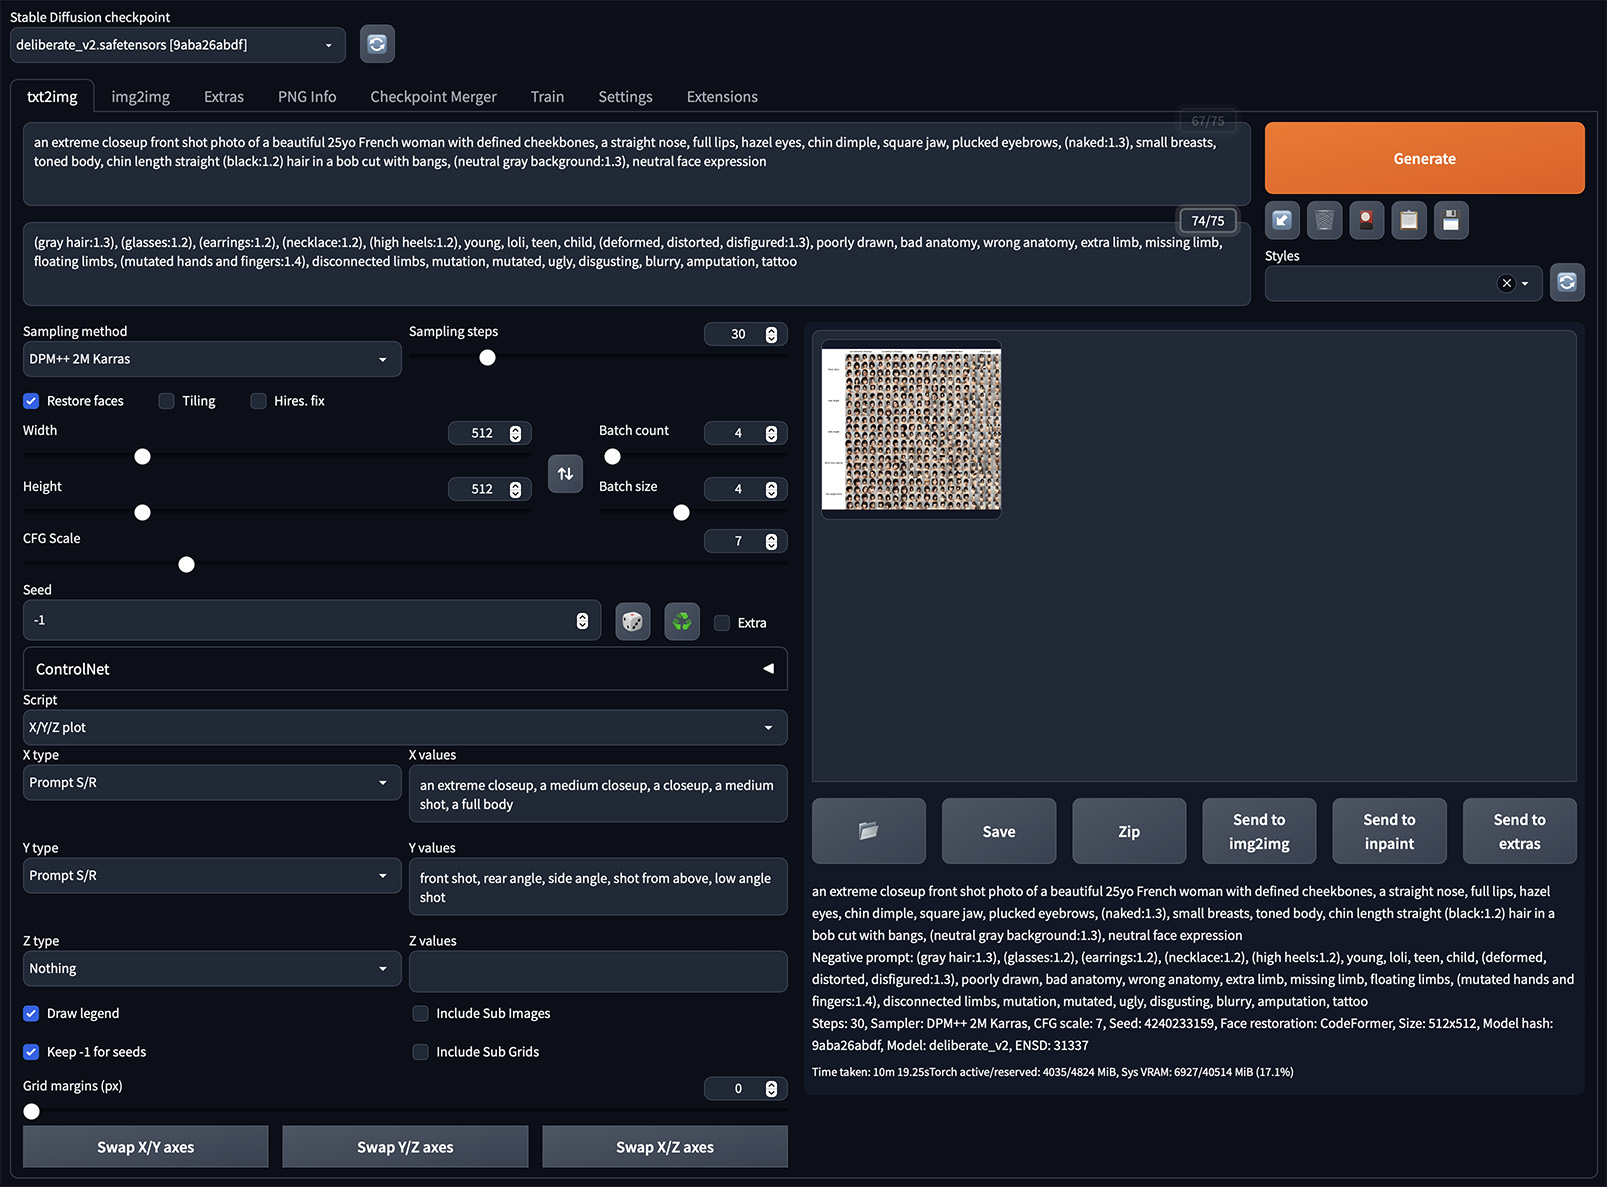
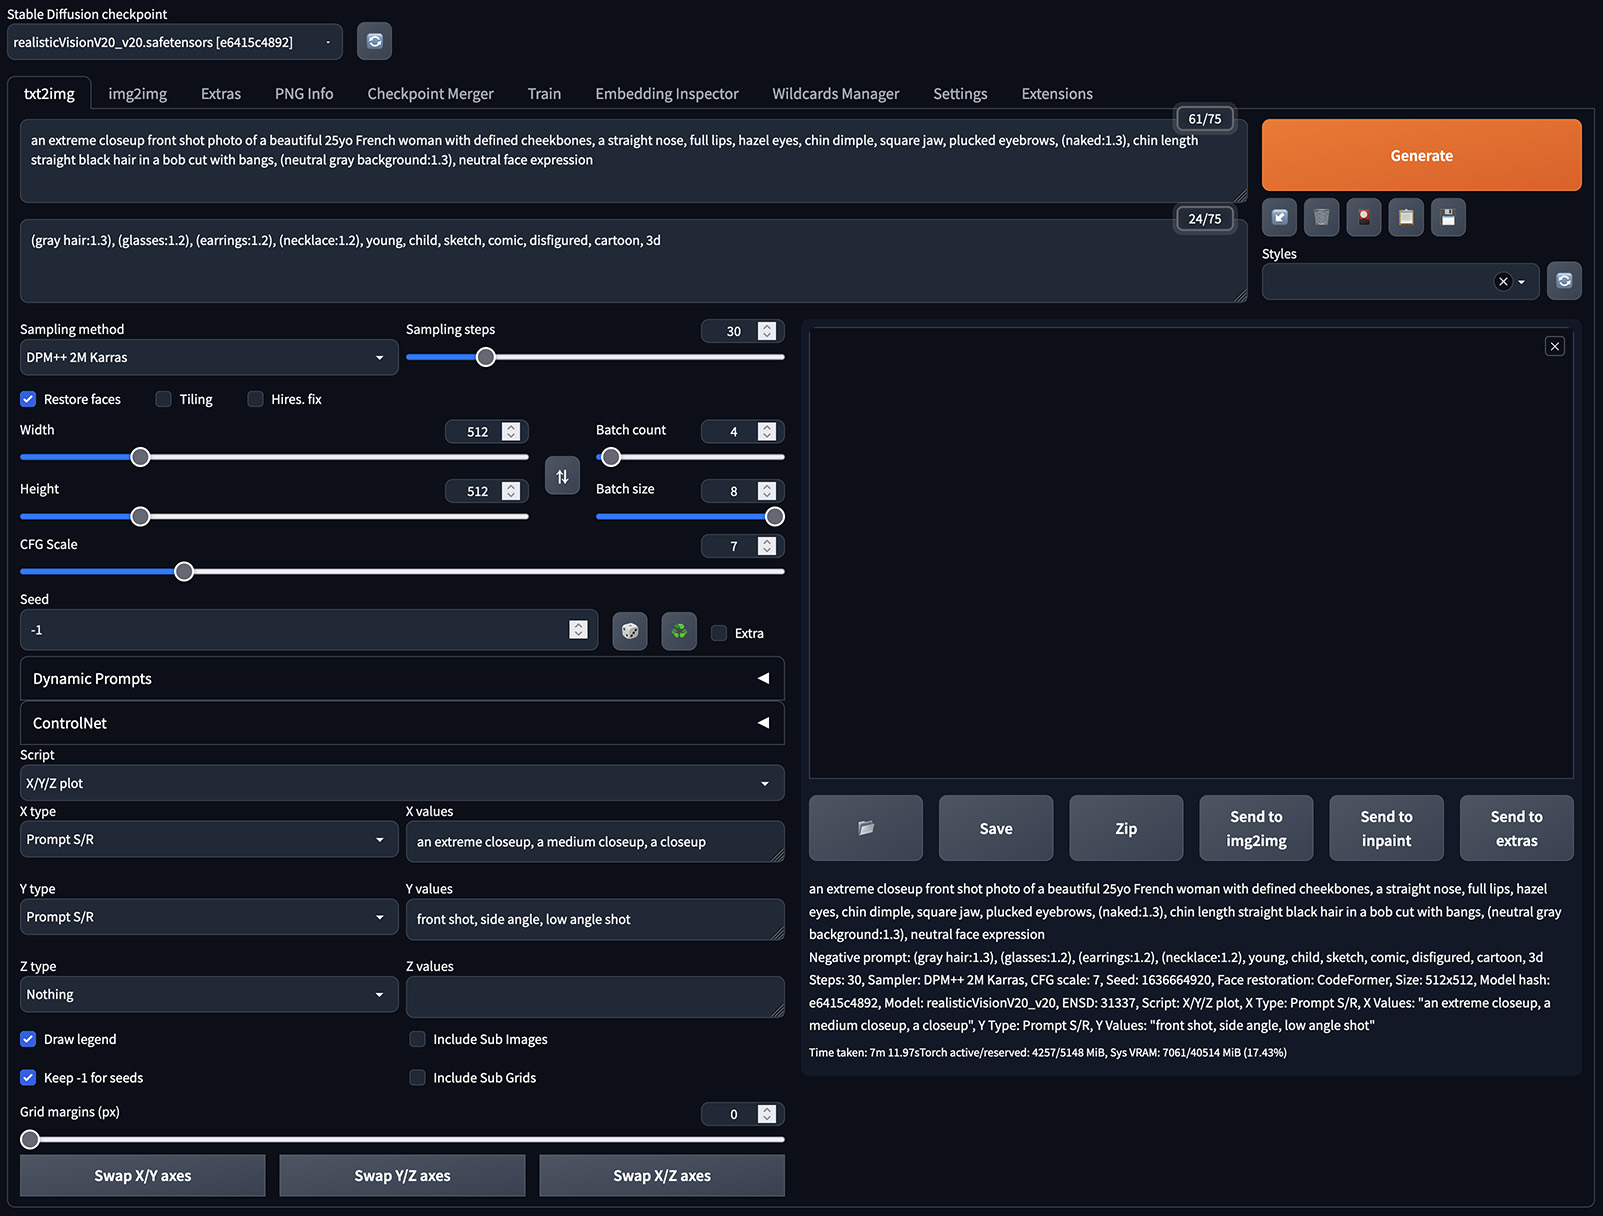
Update steps 1-3 to match a new generation of images.

diff --git a/consistent_character_embedding/README.md b/consistent_character_embedding/README.md
@@ -31,7 +31,7 @@ I generate these images via [Automatic1111's Stable Diffusion web UI](https://gi
 
 ## Choosing a checkpoint for generating your input images
 
-You can use any SD checkpoint you like to generate your input images, although it's essential that the model you choose has seen (and can generate) representative examples like your character. I've been creating photorealistic made-up characters, and I've found [Deliberate](https://civitai.com/models/4823/deliberate) (v2) to be a good, flexible checkpoint for that, but there are plenty of other checkpoints available on sites like [CivitAI](https://civitai.com/).
+You can use any SD checkpoint you like to generate your input images, although it's essential that the model you choose has seen (and can generate) representative examples like your character. I've been creating photorealistic made-up characters, and I've found [Realistic Vision v2.0](https://civitai.com/models/4201/realistic-vision-v20) to be a good, flexible checkpoint for that, but there are plenty of other checkpoints available on sites like [CivitAI](https://civitai.com/).
 
 ## Setting up an input prompt
 
@@ -58,7 +58,7 @@ an extreme closeup front shot photo of a beautiful 25yo French woman with define
 For the negative prompt, try something like this:
 
 ```
-(gray hair:1.3), (glasses:1.2), (earrings:1.2), (necklace:1.2), young, loli, teen, child, (deformed, distorted, disfigured:1.3), poorly drawn, bad anatomy, wrong anatomy, extra limb, missing limb, floating limbs, (mutated hands and fingers:1.4), disconnected limbs, mutation, mutated, ugly, disgusting, blurry, amputation, tattoo
+(gray hair:1.3), (glasses:1.2), (earrings:1.2), (necklace:1.2), young, child, sketch, comic, disfigured, cartoon, 3d
 ```
 
 Note that I've added `(gray hair:1.3)` to the negative prompt there. Boosting `neutral gray background` in the positive prompt has a tendency to cast a gray color over anything else with a specified colored in the prompt, so we need to counterbalance that for the black-colored hair to make sure we get the color we want. (This is a good trick whenever two colors in a prompt start to influence each other in a way you don't want.)
@@ -117,11 +117,11 @@ This tells the A1111 web UI that we want to generate images with three more perm
 
 Because we have _two_ `Prompt S/R` options set for the script, with three variations in each, we've actually told A1111 to generate 9 permutations of our prompt - one for each combination of framing and viewing angle. This will give us lots of varieties of views of our character to choose from for training.
 
-Finally, check the box next to `Keep -1 for seeds`, and set `Batch Count` and `Batch Size` both to 4. This will generate 16 (4 x 4) images for every permutation of the above. (If your GPU can handle it, you can use a `Batch Count` of 2 and a `Batch Size` of 8 instead.)
+Finally, check the box next to `Keep -1 for seeds`, and set `Batch Count` to 8 and `Batch Size` to 4. This will generate 32 (8 x 4) images for every permutation of the above. (If your GPU can handle it, you can use a `Batch Count` of 4 and a `Batch Size` of 8 instead.)
 
-With all of the above, we have asked A1111 to generate 144 images (16 x 3 x 3). Hit the `Generate` button, and leave A1111 to do its thing. Maybe make a hot beverage. Step 1 is complete!
+With all of the above, we have asked A1111 to generate 288 images (32 x 3 x 3). Hit the `Generate` button, and leave A1111 to do its thing. Maybe make a hot beverage. Step 1 is complete!
 
-> Note: You don't have to generate 144 images at this stage if you don't want to! If you have a slower GPU, or don't want to sort through that many images, then reduce the batch size and / or batch count for a lower total output. Personally, I like to generate a larger number of images, so that I can choose just the very best and closest-matching images from the output.
+> Note: You don't have to generate 288 images at this stage if you don't want to! If you have a slower GPU, or don't want to sort through that many images, then reduce the batch size and / or batch count for a lower total output. Personally, I like to generate a larger number of images, so that I can choose just the very best and closest-matching images from the output.
 
 Here's how all of the generation settings look for me with today's A1111 interface:
 
@@ -129,24 +129,27 @@ Here's how all of the generation settings look for me with today's A1111 interfa
 
 # 2. Filtering input images
 
-You now have 144 _possibly_ good images that _possibly_ look like the character you're trying to create. The next step is to filter these 144 images down to 8 _definitely_ good images to train with.
+You now have 288 _possibly_ good images that _possibly_ look like the character you're trying to create. The next step is to filter these 288 images down to 8 _definitely_ good images to train with. (Yep, we're going to throw away nearly all of them.)
 
 ## Remove any images that are obviously off-prompt
 
 Here, I'd remove images where the character is clothed, or wearing jewelry, or has a non-matching hairstyle, or has their face off-screen, or the background isn't gray, or there are multiple people, or… basically, anything that isn't what we asked for.
 
-Here's an example of some of the images I removed from my set of 144 at this step in the process. Note that I removed any images where the hairstyle did not have the requested bangs (fringe), to ensure consistency in the training images later on. This first pass removed 45 images. (Check the image alt tags for the reasons why I removed them.)
+Here's an example of some of the images I removed from my set of 288 at this step in the process. Note that I removed any images where the hairstyle did not have the requested bangs (fringe), to ensure consistency in the training images later on. This first pass removed 39 images.
 
-<img src="images/step_2a_example_removal_1.png" width="128" height="128" alt="Non-matching hairstyle (doesn't have bangs)">
-<img src="images/step_2a_example_removal_2.png" width="128" height="128" alt="Wrong hair color; not entirely naked">
+<img src="images/step_2a_example_removal_1.jpg" width="128" height="128">
+<img src="images/step_2a_example_removal_2.jpg" width="128" height="128">
+<img src="images/step_2a_example_removal_3.jpg" width="128" height="128">
 
 ## Remove poor quality images
 
-This time, we're removing images that have wonky faces, or eyes that Restore Faces kinda messed up, or… images are just not a great photo of a person.
+This time, we're removing images that have wonky faces, or eyes that Restore Faces kinda messed up, or… images are just not a great photo of a person. I also removed more images at this stage where the face was a little _too_ extreme closeup, or the hair wasn't the style or length that I wanted.
 
-Here's an example of an image I removed at this stage (66 in total).
+Here's an example of an image I removed at this stage (79 in total).
 
-<img src="images/step_2b_example_removal_1.png" width="128" height="128" alt="Mismatched eye shapes">
+<img src="images/step_2b_example_removal_1.jpg" width="128" height="128">
+<img src="images/step_2b_example_removal_2.jpg" width="128" height="128">
+<img src="images/step_2b_example_removal_3.jpg" width="128" height="128">
 
 ## Remove images that don't "look like the character"
 
@@ -154,17 +157,21 @@ This might seem like a weird thing to say. This person doesn't exist! How do we 
 
 Well: that's for you to define. There will usually be an overall "look" to the character already by this point, and some of the images won't match that look nearly as well as the others. So, filter those images out, and narrow in on the look of the specific person you're trying to create.
 
-For reference, I cut another 119 images in this step. This was partly because I decided to enforce a slightly more consistent hair length for the bob haircut, and partly because I used this stage to really hone in on the look of the character. Here are some examples of the images I cut. (And I should stress that this is _not_ an exact science.)
+For reference, I cut another 107 images in this step. This was partly because I decided to enforce a slightly more consistent hair length for the bob haircut, and partly because I used this stage to really hone in on the look of the character. Here are some examples of the images I cut.
 	
-<img src="images/step_2c_example_removal_1.png" width="128" height="128" alt="Didn't match character look; hair too short">
-<img src="images/step_2c_example_removal_2.png" width="128" height="128" alt="Didn't match character look; hair too short">
-<img src="images/step_2c_example_removal_3.png" width="128" height="128" alt="Didn't match character look; hair too short">
+<img src="images/step_2c_example_removal_1.jpg" width="128" height="128">
+<img src="images/step_2c_example_removal_2.jpg" width="128" height="128">
+<img src="images/step_2c_example_removal_3.jpg" width="128" height="128">
 
 ## Fine-tune to just the best images
 
 This is really just a much more selective take on the second and third steps above, to narrow in to the best of the best images in the input set. I culled a ton of okay-but-not-really-adding-anything images at this step to get me to my final 8.
 
 Ideally, after doing all of the above, you will have 8 good-quality images left that look like the character you're aiming for, typically showing their face and (optionally) shoulders / upper body. The most important thing is that the images you choose are high-quality and look like your character - and consistency is key. If your eight images don't look the same person, then your trained embedding won't either.
+
+Here are the results of this final step for me (I've masked part of one of the images below, but only to avoid displaying nudity here):
+
+<img src="images/step_2d_results.jpg" width="512" height="256">
 
 # 3. Training an embedding on the input images
 
@@ -202,7 +209,7 @@ Here's how all of those settings look in A1111:
 
 Next, head over to the `Train` sub-tab. I'll cover all of the training settings below, but if you just want a summary, here's how my settings look in A1111:
 
-![Training settings](images/step_3_train_settings_5_step_150.jpg)
+![Training settings](images/step_3_training_settings.jpg)
 
 ### Basic settings
 
@@ -237,18 +244,18 @@ I usually leave `Log directory` at the default value.
 For this process, I use a custom prompt template, which goes in the `textual_inversion_templates` folder of your A1111 installation. I call it `subject_naked_gray.txt`, and it contains just the following text:
 
 ```
-a photo of [name] naked, neutral gray background
+a closeup photo of [name] naked, neutral gray background
 ```
 
 This file gets translated by SD into a training prompt for each input image. `[name]` is replaced with the name of the embedding (`fr3nchl4dy`). So, for each of our images, the combined training prompt from this text file will be:
 
 ```
-a photo of fr3nchl4dy naked, neutral gray background
+a closeup photo of fr3nchl4dy naked, neutral gray background
 ```
 
 Note that for the training prompt, we've removed nearly all of the detail from the generation prompt, including the character's look and hairstyle. We want SD to learn that all of those things combined are called `fr3nchl4dy`. It's kind of like saying we have "a photo of Marilyn Monroe", but instead of using the name "Marilyn Monroe", we're using the made-up name "`fr3nchl4dy`".
 
-We do, however, want to tell the training process about all of the things that are _not_ the essence of our character in each image. For example: our training images have a neutral gray background, but we don't always want our character to appear in images with neutral gray backgrounds. So, we want to keep the "neutral gray background" tag when each image is used for training, so that the trainer knows that "neutral gray background" is not an attribute of our character. We likewise don't want the character to always be naked, so we'll keep "naked" in our training prompt too.
+We do, however, want to tell the training process about all of the things that are _not_ the essence of our character in each image. For example: our training images have a neutral gray background, but we don't always want our character to appear in images with neutral gray backgrounds. So, we want to keep the "neutral gray background" tag when each image is used for training, so that the trainer knows that "neutral gray background" is not an attribute of our character. We likewise don't want the character to always be naked, so we'll keep "naked" in our training prompt too. And these are specifically closeup photos of our character, so let's specify that too. (This has the added advantage of generating closeup images during training, which helps us spot if the face in those closeups is trending towards our desired character's look.)
 
 ### Image size
 
@@ -272,7 +279,7 @@ I also leave the `Read parameters (prompt, etc...) from txt2img tab when making 
 
 I leave `Shuffle tags by ',' when creating prompts` unchecked, and leave `Drop out tags when creating prompts` at `0`. I've heard that this can provide more flexibility to the range of input prompts that can be used with an embedding, but I prefer to keep the prompts in the exact order and format I authored them, so I don't enable these options.
 
-Finally, I leave `Choose latent sampling method` at `once`.
+Finally, I leave `Choose latent sampling method` as `once`.
 
 ## Running the training
 
@@ -322,13 +329,11 @@ The prompt I usually use for detecting the right `Steps` value to use is:
 a medium closeup color portrait photo of fr3nchl4dy-20 wearing a bra on a greek island
 ```
 
-Set the `Negative prompt` field to:
+I also clear the `Negative prompt` field. That's right: I generate the validation images _without_ a negative prompt. There are two reasons for this:
 
-```
-young, loli, teen, child, (deformed, distorted, disfigured:1.3), poorly drawn, bad anatomy, wrong anatomy, extra limb, missing limb, floating limbs, (mutated hands and fingers:1.4), disconnected limbs, mutation, mutated, ugly, disgusting, blurry, amputation, tattoo
-```
+1. At the point where SD has learned what `fr3nchl4dy` looks like, it should be able to generate a image of that character's face _without_ requiring any negative prompts to fix things. If it can't do that, then we didn't train the character's face successfully.
 
-(…or your own preferred negative prompt.)
+2. Negative prompts inevitably pull each generated image in a certain direction - that's what they are there for, after all. Depending on the negative prompt, this can end up making the generated output look different to the input, just because the negative prompt ends up negating or modifying some of the learned characteristics in the embedding. And for validation, we want to see exactly what's in the embedding itself.
 
 We'll start by generating a coarse comparison between every 20 steps of the training, so we can see roughly where the embedding "turned" into our character.
 
@@ -350,13 +355,13 @@ Here's how those validation settings look for me:
 
 ![Validation settings](images/step_4_validation_settings.jpg)
 
-I recommend running this against the model you used to create the original input images (in my case, Deliberate v2), and also against the Stable Diffusion 1.5 base model. I've included examples of both below.
+I recommend running this against the model you used to create the original input images (in my case, RealisticVision v2.0), and also against the Stable Diffusion 1.5 base model. I've included examples of both below.
 
 The generation process may take several minutes, and will generate a big image. I've cropped it down to show some select iterations below.
 
 ## Finding out when the embedding became "good"
 
-If we look at the output of this prompt after 20 training steps, we can see that it doesn't really look much like our character yet (SD 1.5 on the left, Deliberate v2 on the right):
+If we look at the output of this prompt after 20 training steps, we can see that it doesn't really look much like our character yet (SD 1.5 on the left, RealisticVision v2.0 on the right):
 
 <img src="images/step_4_coarse_sd15_bra_greek_island_step_20.jpg" width="256" height="296" alt="Validation output after 20 steps of training - SD 1.5">
 <img src="images/step_4_coarse_deliberate_bra_greek_island_step_20.jpg" width="256" height="296" alt="Validation output after 20 steps of training - Deliberate v2">
